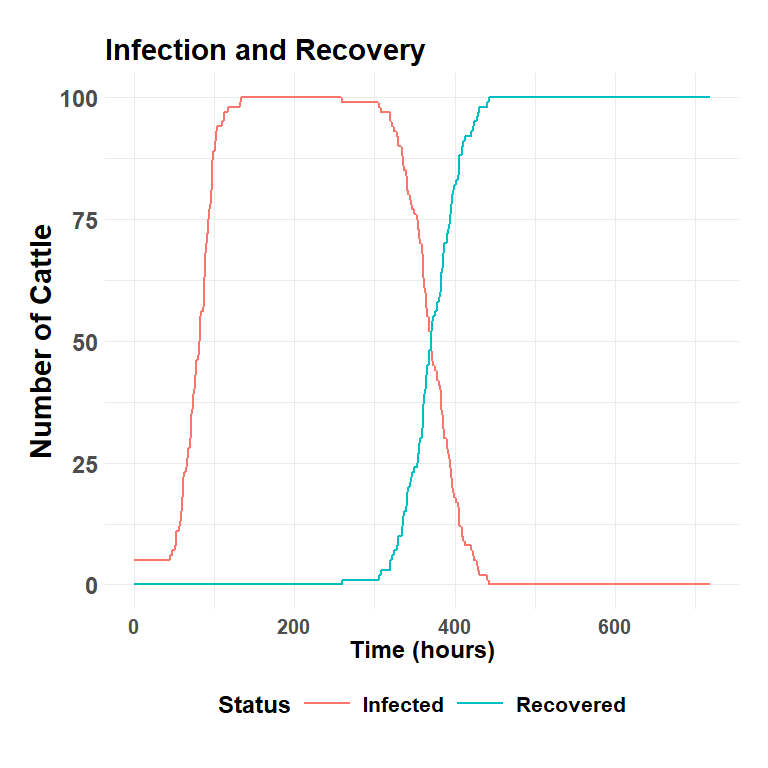
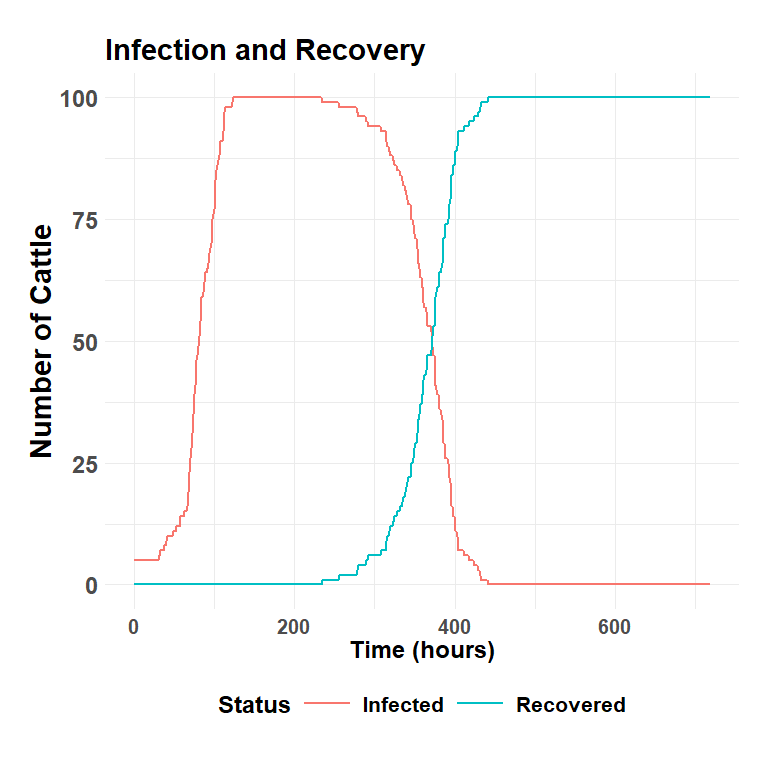
add herd level

diff --git a/README.md b/README.md
@@ -2,10 +2,13 @@
 An Agent Based Model (ABM) simulating within-host virus dynamics and between host transmission.  Functions provide scenarios for a room-to-room challenge experiment and virus introduction to a cattle herd.  
 
 This work is in draft form, has not been verified, and is subject to change.  
-### Room-to-Room Overview (HERE): https://github.com/geoepi/challengeABM/blob/main/articles/room_to_room_transmission.md   
+### Room-to-Room Overview:  
+https://github.com/geoepi/challengeABM/blob/main/articles/room_to_room_transmission.md  
   
-### Within Herd Overview: https://github.com/geoepi/challengeABM/blob/main/articles/within_herd_transmission.md   
-  
-### Simplified Room-to-Rooom ShinyApp: https://geoepi.shinyapps.io/fmdv-preclinical/  
+### Within Herd Overview:  
+https://github.com/geoepi/challengeABM/blob/main/articles/within_herd_transmission.md  
+   
+### Simplified Room-to-Rooom ShinyApp:   
+https://geoepi.shinyapps.io/fmdv-preclinical/    
 
 

diff --git a/articles/within_herd_transmission.md b/articles/within_herd_transmission.md
@@ -56,7 +56,7 @@ seed_val
 
 </details>
 
-    [1] 119
+    [1] 225
 
 <details open>
 <summary>Hide code</summary>
